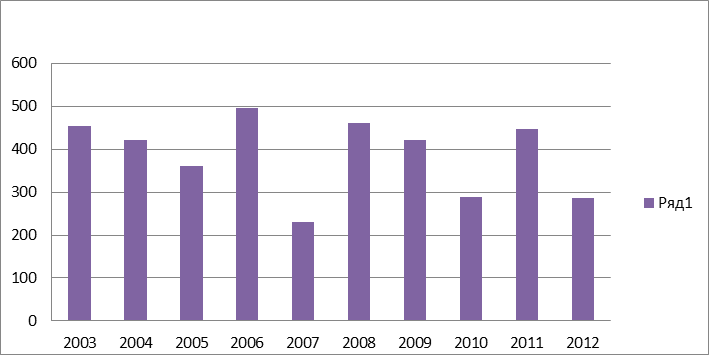
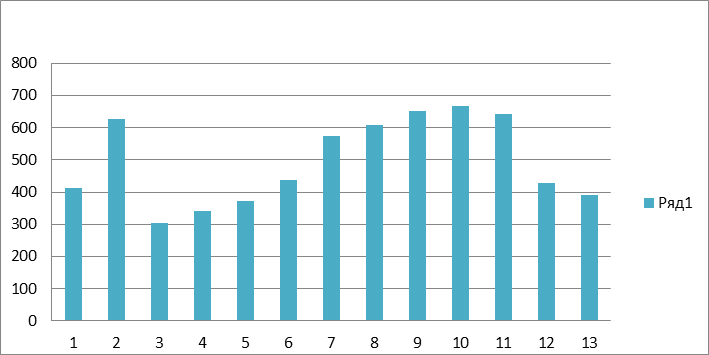
Added new console parameter for maximum number of columns. Added more examples

diff --git a/GenerateApp/generator.py b/GenerateApp/generator.py
@@ -41,9 +41,9 @@ def generate_labels(size):
 
     return labels
 
-def create_table(path):
+def create_table(path, MaxColumnNumber):
     random.seed()
-    ColumnCount = random.randint(5, 12)
+    ColumnCount = random.randint(5, MaxColumnNumber)
     full_path = str(path) + '\source.xlsx'
     workbook = xlsxwriter.Workbook(full_path )
 
@@ -101,7 +101,7 @@ def generate(args):
         iteration_path = os.path.join(dirpath, str(iteration+1))
         if not os.access(iteration_path, os.F_OK):
             os.makedirs(iteration_path)
-        create_table(iteration_path)
+        create_table(iteration_path, args.MaxColumnsCount)
         export_image(iteration_path)
 
 
@@ -110,9 +110,10 @@ def parse(argv):
     parser = argparse.ArgumentParser(description="""
      Parser of image and tables generator
         """, formatter_class=argparse.RawTextHelpFormatter)
-    parser.add_argument('ChartsCount', action='store', type=int)
     parser.add_argument('BasePath', action='store', type=pathlib.Path)
     parser.add_argument('BaseName', action='store', type=str)
+    parser.add_argument('ChartsCount', action='store', type=int)
+    parser.add_argument('MaxColumnsCount', action='store', type=int)
 
     return parser.parse_args(argv[1:])
 
